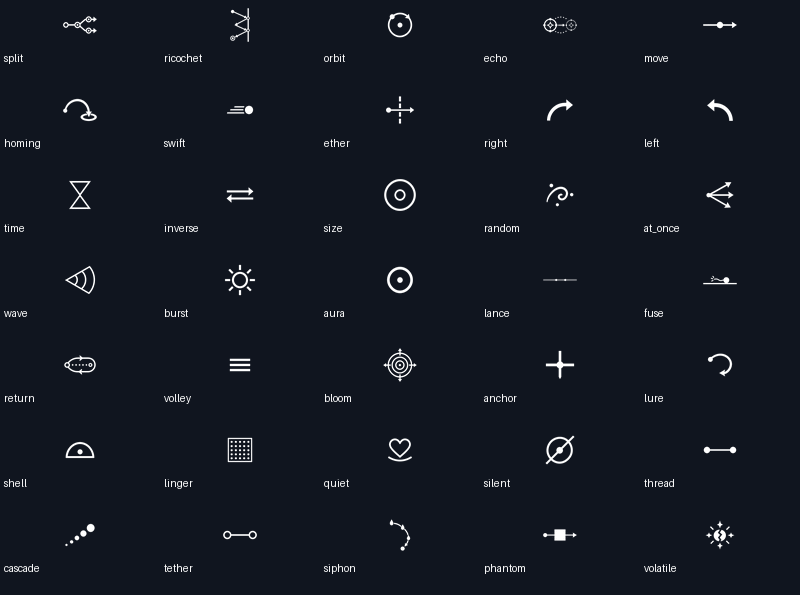
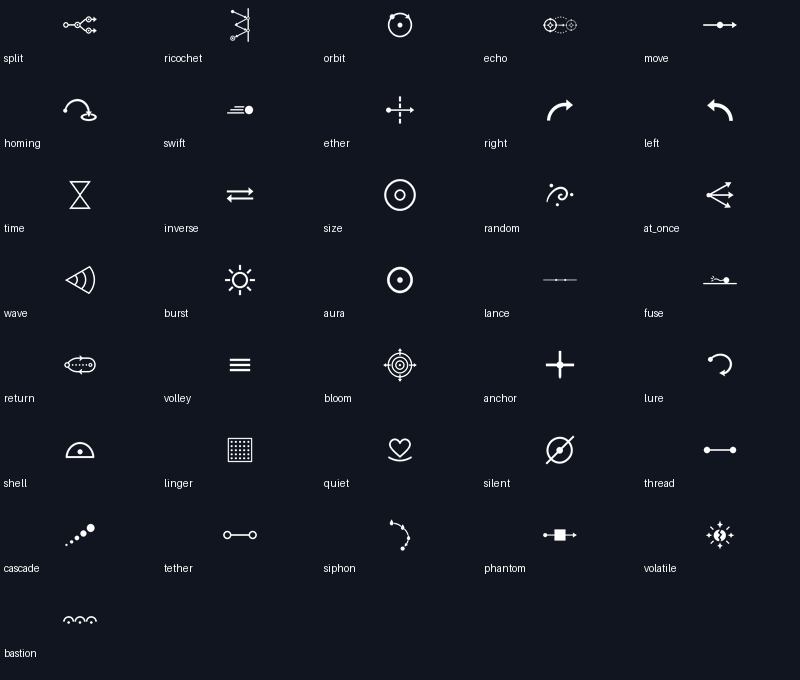
art: draw Bastion module three protective domes

diff --git a/art/_archive/deliveries/2026-11-12/HANDOFF.md b/art/_archive/deliveries/2026-11-12/HANDOFF.md
@@ -2,13 +2,13 @@
 
 **Destination: `art/briefs-complete`; keep develop and the implementer branch untouched.** The prompt file was found on `claude/charming-gauss-hbq4n0` at `dd35e4b8`; it was safely fast-forwarded into this art branch. No force pushes. Fetch current refs and preserve any subsequent implementer work before continuing.
 
-Actual delivered: **71/77**. Every delivered image was generated with image_gen, shown in chat, technically exported, validated, committed and pushed before the next render. New art is review-candidate with production_approved:false. The exact delivered list is progress.json; production selections and source/reference hashes are manifest.json.
+Actual delivered: **72/77**. Every delivered image was generated with image_gen, shown in chat, technically exported, validated, committed and pushed before the next render. New art is review-candidate with production_approved:false. The exact delivered list is progress.json; production selections and source/reference hashes are manifest.json.
 
 ## Next work
 
-Next image: **`module-bastion`**.
+Next image: **`module-judgement_mark`**.
 
-Remaining ordered queue: `module-bastion`, `module-judgement_mark`, `module-halo`, `ui-revert`, `ui-practice`, `ui-felt`.
+Remaining ordered queue: `module-judgement_mark`, `module-halo`, `ui-revert`, `ui-practice`, `ui-felt`.
 
 Read `art/AGENTS.md`, `art/README.md`, `art/style-guide/PHC-Style-Guide.md`, `art/icons/STYLE-LOCK.md`, `art/briefs/GPT-PROMPTS-2026-11-12.md` and its linked current request/rules documents. Read queue.json in this folder: it contains exact prompts, reference paths and delivered flags. **Do not skip Both Hands just because its id exists:** its replacement is already delivered here and its stand-in is preserved in art/_archive/icons/perks/2026-11-12/. Do not rely on the Wick section heading13: the table and ART-REQUESTS enumerate11 (Rebuke, Both Hands, nine Calls).
 

diff --git a/art/_archive/deliveries/2026-11-12/README.md b/art/_archive/deliveries/2026-11-12/README.md
@@ -2,4 +2,4 @@
 
 Review candidates; production_approved:false. Source branch: claude/charming-gauss-hbq4n0, dd35e4b8. Destination: art/briefs-complete. The brief heading says13 Wick icons, but its table and ART-REQUESTS enumerate11. This run covers those11 plus25 feelings,38 modules and3 UI marks. Leon approved both test-set styles for continued production. Optional maps require current tile guides. No planned equipment or campaign maps are drawn.
 
-Delivered: 71/77. See progress.json, manifest.json, queue.json, prompts/, sources/, masters/v1/ and reviews/.
+Delivered: 72/77. See progress.json, manifest.json, queue.json, prompts/, sources/, masters/v1/ and reviews/.

diff --git a/art/icons/modules/README.md b/art/icons/modules/README.md
@@ -37,5 +37,6 @@ Pure white ink on transparency; image_gen drawings, technically separated and re
 - `module-siphon.png`: a curve drawing drops toward a centre
 - `module-phantom.png`: a dot passing through a solid block
 - `module-volatile.png`: a dot cracking open with sparks
+- `module-bastion.png`: three small domes over three dots
 
 Leon approved both test-set family styles for continued production. Individual images remain review candidates, production_approved:false.
